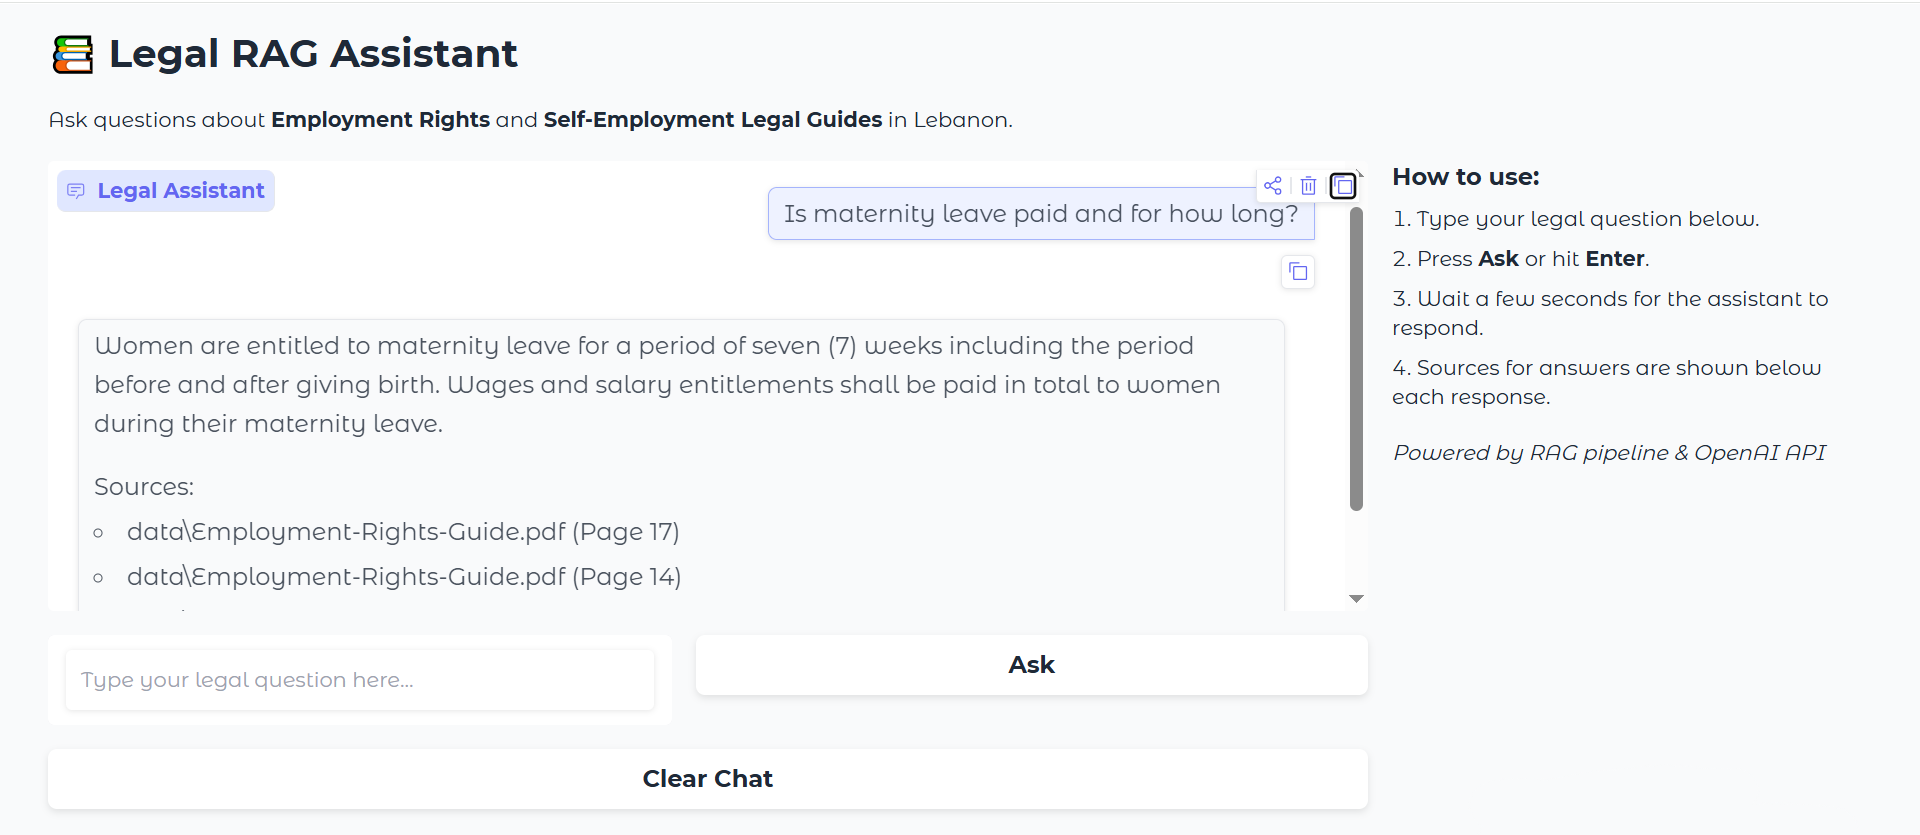
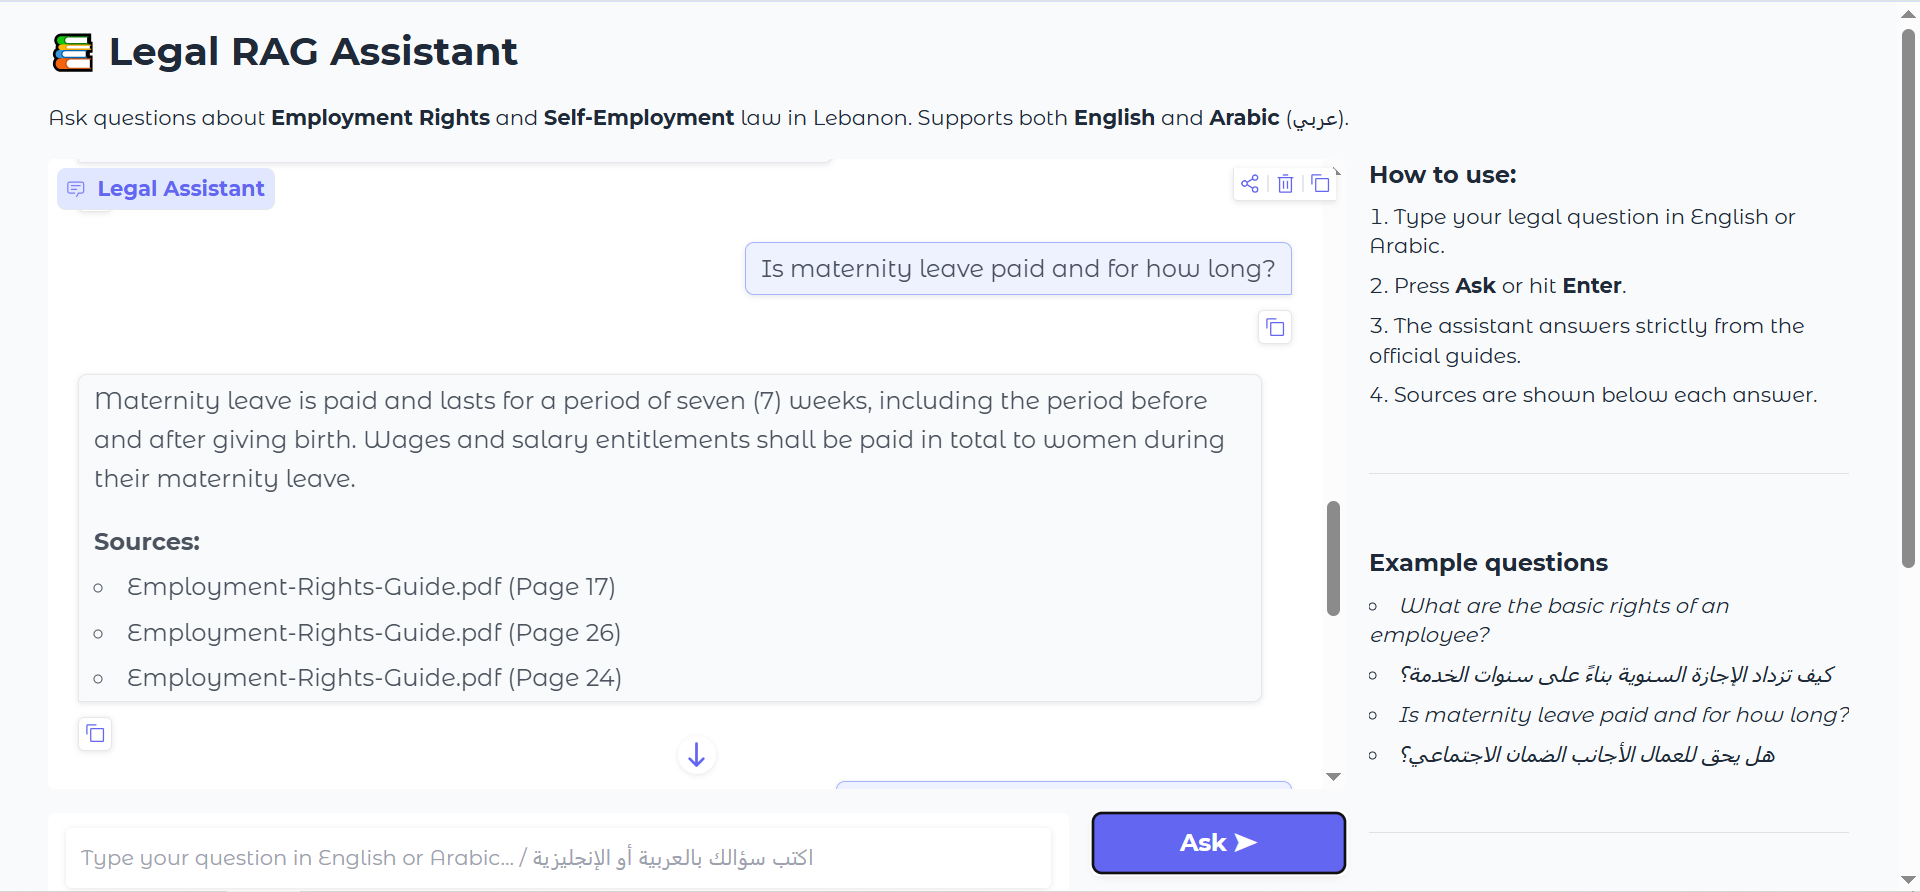
Update README, requirements, gitignore; add data and assets

diff --git a/README.md b/README.md
@@ -1,36 +1,72 @@
-# 📚 Legal RAG Assistant
+# 📚 Legal RAG Assistant — Lebanese Labor Law
 
-A Legal Question-Answering assistant for Employment Rights and Self-Employment Legal Guides in Lebanon.
-It uses a Retrieval-Augmented Generation (RAG) pipeline with a vectorstore to provide precise answers strictly based on legal guides.
+A bilingual (Arabic/English) Legal Question-Answering assistant for Employment Rights and Self-Employment law in Lebanon. Built on a production-shaped RAG pipeline with hybrid retrieval, cross-encoder reranking, and a full bilingual evaluation suite.
 
+---
 
-## Features:
+## Highlights
 
-- Answer legal questions using local guides (Employment-Rights-Guide.pdf and Self-Employment-Guide.pdf).
+- **Bilingual support** — answers questions in both Arabic and English, with language-aware retrieval and generation.
 
-- Returns the answer and the exact sources (document and page numbers).
+- **Hybrid retrieval** — combines dense semantic search (multilingual E5 embeddings + FAISS) with sparse keyword search (BM25) for more robust retrieval.
 
-- Clean, interactive chat interface built with Gradio.
+- **Cross-encoder reranking** — re-scores retrieved chunks jointly with the query for higher-quality context before generation.
 
-- Uses OpenAI GPT for precise responses with RAG-based context retrieval.
+- **Grounded generation with refusal** — GPT-4.1-mini answers strictly from retrieved context; explicitly refuses to answer when information is not in the guides (validated at 100% refusal accuracy).
 
-- Error-handled: No crashes even if questions are invalid or retrieval fails.
+- **Full evaluation suite** — Precision@K, Recall@K, Hit@K, MRR, behavioral accuracy, and LLM-as-judge scoring across both languages.
 
+- **Production-shaped architecture** — separated pipeline, FastAPI backend, Gradio interface, test suite with metrics thresholds, structured logging throughout.
+
+---
+
+## Evaluation Results
+
+| Metric | English | Arabic |
+|---|---|---|
+| Answer accuracy | 0.96 | 0.88 |
+| Refusal accuracy | 1.00 | 1.00 |
+| Recall@3 | 1.00 | 0.62 |
+| MRR (K=10) | 0.822 | 0.416 |
+| LLM judge avg | 3.00 / 3 | 2.75 / 3 |
+
+---
 
 ## Folder Structure:
 ```
-├─ development_notebook.ipynb
-├─ rag_pipeline.py          # Core RAG pipeline
-├─ test_pipeline.py         # Example/testing scripts for RAG pipeline
-├─ gradio_app.py            # Gradio chat interface
-├─ api.py                   # FastAPI endpoint serving the RAG pipeline
-├─ data/                    # Folder containing legal guide PDFs
-├─ assets/                  # Folder containing the demo screenshot
-├─ chunks.pkl               # Serialized text chunks for retrieval
-├─ index.faiss              # FAISS vector index
+├─ development_notebook.ipynb # Full pipeline development + evaluation
+├─ rag_pipeline.py            # Core bilingual RAG pipeline (hybrid retrieval, reranking, generation)
+├─ test_pipeline.py           # Test suite: language detection, retrieval filter, refusal, metrics
+├─ gradio_app.py              # Bilingual Gradio chat interface
+├─ api.py                     # FastAPI backend with input validation, error handling, logging
+├─ data/                      # Lebanese labor law PDF guides (Arabic + English)
+├─ assets/                    # Demo screenshot                         
 ├─ requirements.txt 
 └─ README.md
 ```
+---
+
+## Pipeline Overview
+
+**1. Document loading & chunking**
+PDFs are loaded, blank pages removed, and language-tagged by filename. Text is split into token-aware overlapping chunks (500 tokens, 100 overlap) using tiktoken.
+
+**2. Embedding generation**
+Chunks are encoded with `intfloat/multilingual-e5-base` using E5's required `passage:` prefix. Embeddings are L2-normalized for cosine similarity via inner product.
+
+**3. Hybrid retrieval (FAISS + BM25)**
+Dense vectors indexed with `IndexFlatIP`. BM25 provides keyword matching with language-aware tokenization. Scores combined with language-specific weights (EN: 0.7/0.3, AR: 0.5/0.5).
+
+**4. Language-aware filtering**
+Query language detected via Unicode range analysis. Retrieval strictly filtered to same-language chunks to prevent cross-language mixing.
+
+**5. Cross-encoder reranking**
+Retrieved candidates reranked with `cross-encoder/mmarco-mMiniLMv2-L12-H384-v1`. Final context: top 3 chunks (English), top 5 (Arabic).
+
+**6. Grounded generation**
+Language-specific prompts injected into GPT-4.1-mini with an explicit refusal mechanism when the answer is not found in context.
+
+---
 
 ## Setup and Installation:
 
@@ -56,10 +92,12 @@ source venv/bin/activate
 pip install -r requirements.txt
 ```
 
-4. **Create a .env file in the project root with your OpenAI API key:**
-
+4. **Create a `.env` file in the project root with your OpenAI API key:**
+```bash
 OPENAI_API_KEY=your_openai_api_key_here
-
+API_URL=http://127.0.0.1:8000/ask
+```
+---
 
 ## Running the Project:
 
@@ -70,73 +108,47 @@ uvicorn api:app --reload
 - The server runs at: http://127.0.0.1:8000/ask
 - This endpoint handles legal questions and returns JSON responses.
 
-**Step 2 - Start the Gradio interface**
-
-In a new terminal (same virtual environment):
+**Step 2 - Start the Gradio interface** (new terminal, same venv):
 ```bash
 python gradio_app.py
 ```
-- Open your browser at http://127.0.0.1:7860
-- Ask legal questions and get answers with sources displayed in the chat.
+- Open your browser at `http://127.0.0.1:7860`
+- Type questions in English or Arabic.
 
-*Tip:* The chat keeps history of previous questions; use Clear Chat to reset.
+---
 
-
-## Testing the RAG Pipeline:
-
-You can test retrieval and answer generation directly:
+## Running the Test Suite
 ```bash
 python test_pipeline.py
 ```
-- Includes example queries and computes retrieval accuracy (Hit@3).
-- Useful for debugging or verifying the RAG pipeline.
+Runs 7 tests covering pipeline initialization, language detection, retrieval language filtering, refusal on unanswerable questions, source citation, empty query handling, and retrieval metric thresholds (Hit@3, MRR) for both languages. All tests must pass before committing changes.
 
+---
 
-## Project Workflow:
+## Tech Stack
 
-**1. RAG Pipeline (rag_pipeline.py):**
+| Component | Technology |
+|---|---|
+| Embeddings | `intfloat/multilingual-e5-base` |
+| Vector search | FAISS `IndexFlatIP` |
+| Sparse retrieval | BM25Okapi (rank-bm25) |
+| Reranker | `cross-encoder/mmarco-mMiniLMv2-L12-H384-v1` |
+| Generation | GPT-4.1-mini (OpenAI) |
+| API | FastAPI + Uvicorn |
+| Interface | Gradio |
+| Chunking | LangChain + tiktoken |
 
-- Loads FAISS index and text chunks.
-- Embeds the query using SentenceTransformer.
-- Retrieves top-k relevant chunks.
-- Generates an answer using OpenAI GPT, strictly based on retrieved context.
+---
 
-**2. API Endpoint (api.py):**
+## Limitations
 
-- Wraps the pipeline with FastAPI.
-- Returns answers and sources in JSON.
-- Handles errors properly.
+- Evaluation conducted on a manually curated dataset of 30 questions — results are directional rather than statistically definitive
+- Arabic retrieval underperforms English due to BM25 morphology limitations and multilingual embedding tradeoffs (Recall@3: 0.62 vs 1.00)
+- Currently runs locally; cloud deployment, containerization, and concurrent user handling are not yet implemented
 
-**3. Gradio Chat (gradio_app.py):**
-
-- Provides a user-friendly interface.
-- Sends questions to the FastAPI endpoint.
-- Displays answers and sources in chat format.
-
-
-### Notes:
-
-- **Local usage only:** For now, the app runs locally. A sharable public URL can be generated using Gradio's share=True, or you can deploy on a cloud server for permanent hosting.
-
-- **Number of questions:** Chat history is stored in memory; no hard limit, but very long sessions may slightly affect performance.
-
-- **Data privacy:** The app uses your OpenAI API key locally. No external storage of questions or answers.
-
-
-## Dependencies:
-
-- **gradio** - chat interface
-- **fastapi + uvicorn** - API server
-- **openai** - GPT completions
-- **faiss** - vector search
-- **sentence-transformers** - embeddings
-- **python-dotenv** - load .env keys
-- **numpy, pickle** - data handling
-
+---
 
 ## Demo
-
-Here's how the Legal RAG Assistant looks when running locally:
 
 ![Demo Screenshot](assets/demo_screenshot.png)
 